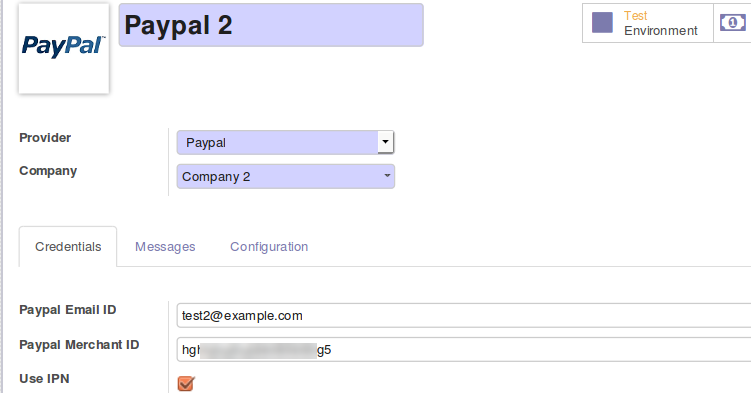
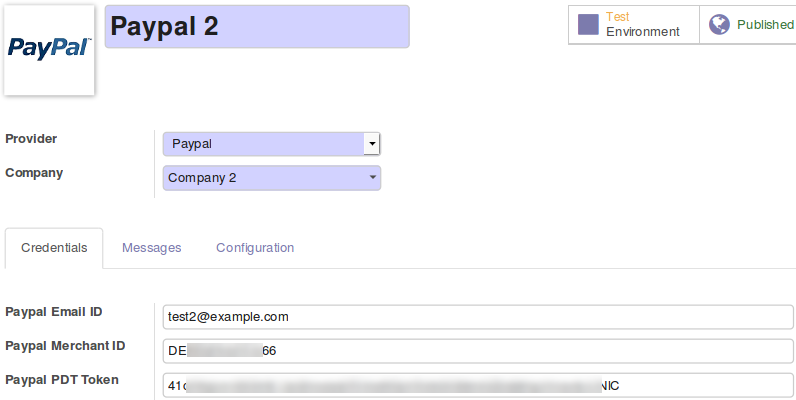
[11.0][DOC] website_multi_company: updates for documentation

diff --git a/website_multi_company/static/description/index.html b/website_multi_company/static/description/index.html
@@ -317,7 +317,7 @@
       </p>
     </div>
     <div class="oe_row_img oe_centered">
-      <img class="oe_demo oe_picture oe_screenshot" src="paypal1.png"/>
+      <img class="oe_demo oe_picture oe_screenshot" src="paypal1.png?1"/>
     </div>
 	<p class="oe_mt32">
  		<font size="3px" class="text-center">
@@ -327,30 +327,7 @@
 		</font>
       </p>
 	<div class="oe_row_img oe_centered">
-      <img class="oe_demo oe_picture oe_screenshot" src="paypal2.png"/>
-    </div>
-   </div>
-</section>
-
-<section class="oe_container">
-  <div class="oe_row oe_spaced">
-    <div class="oe_span12">
-      <p class="oe_mt32">
- 		<font size="3px">
-		  <ul>
-			<li>Switch to <b>Company 1</b> from the right upper corner</li>
-			<li>Go to <em>Settings &rarr; System Parameters</em></li>
-			<li>Create a parameter with following values for <b>Paypal 1</b>: <br/>
-			    <code>Key: payment_paypal.pdt_token</code> <br/>
-			    <code>Value: Identity Token for Paypal 1</code>
-			</li>
-			<li>Then switch to <b>Company 2</b> and make the same steps for <b>Paypal 2</b></li>
-		  </ul>
-		</font>
-      </p>
-    </div>
-    <div class="oe_row_img oe_centered">
-      <img class="oe_demo oe_picture oe_screenshot" src="system_param_paypal.png"/>
+      <img class="oe_demo oe_picture oe_screenshot" src="paypal2.png?1"/>
     </div>
 	<p class="oe_mt32">
 	  <font size="4px">Detailed instruction about how to configure Paypal account and get <em>Paypal Identity Token</em> you can find <a href="https://www.odoo.com/documentation/user/11.0/ecommerce/shopper_experience/paypal.html" target="_blank">here</a></font>

diff --git a/website_multi_company/doc/index.rst b/website_multi_company/doc/index.rst
@@ -224,14 +224,10 @@ E.g. to use different Paypal accounts for different websites you need to make th
 * go to ``[[ Invoicing ]] >> Configuration >> Payments Acquirers``
 * open Paypal acquirer and duplicate it by clicking ``[Action] -> Duplicate``
 * for the first one set Company 1, for the second - Company 2
-* activate the developer mode
-* switch to Company 1 from right upper corner
-* go to ``[[ Settings ]] >> System Parameters``
-* create a parameter with following values for the first paypal account::
+* specify the credentials provided for each acquirer:
 
-    Key: payment_paypal.pdt_token
-    Value: your Paypal Identity Token
-
-* switch to Company 2 and add system parameter for second paypal account the same way
+  * **Paypal Email ID**
+  * **Paypal Merchant ID**
+  * **Paypal PDT Token**
 
 Follow the `instruction <https://www.odoo.com/documentation/user/11.0/ecommerce/shopper_experience/paypal.html>`__ to know how to configure Paypal account and get Paypal Identity Token
